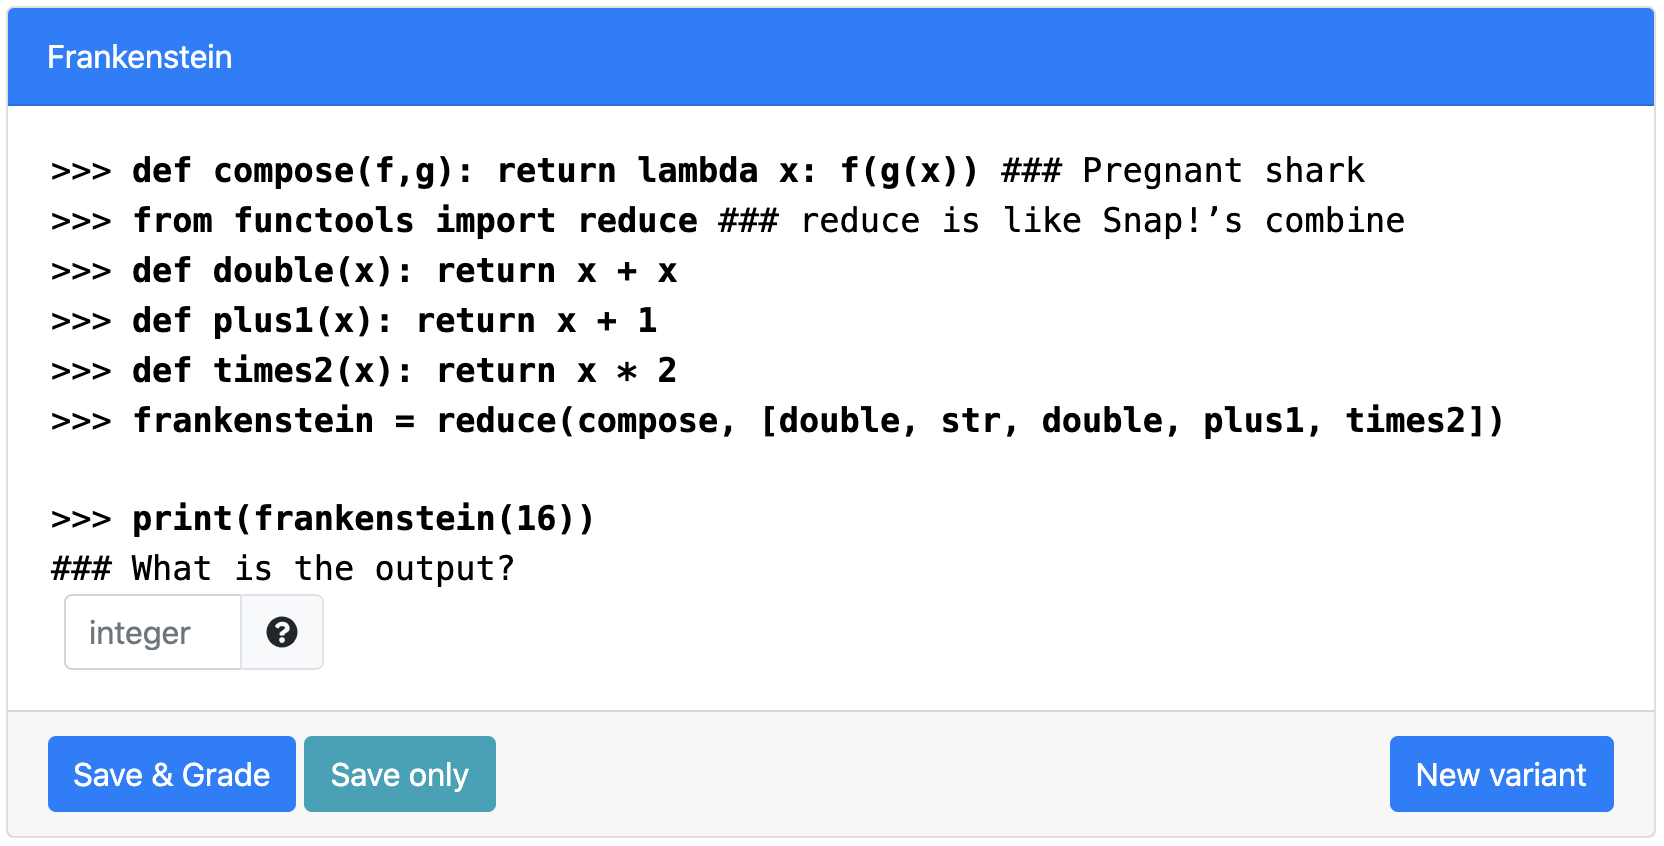
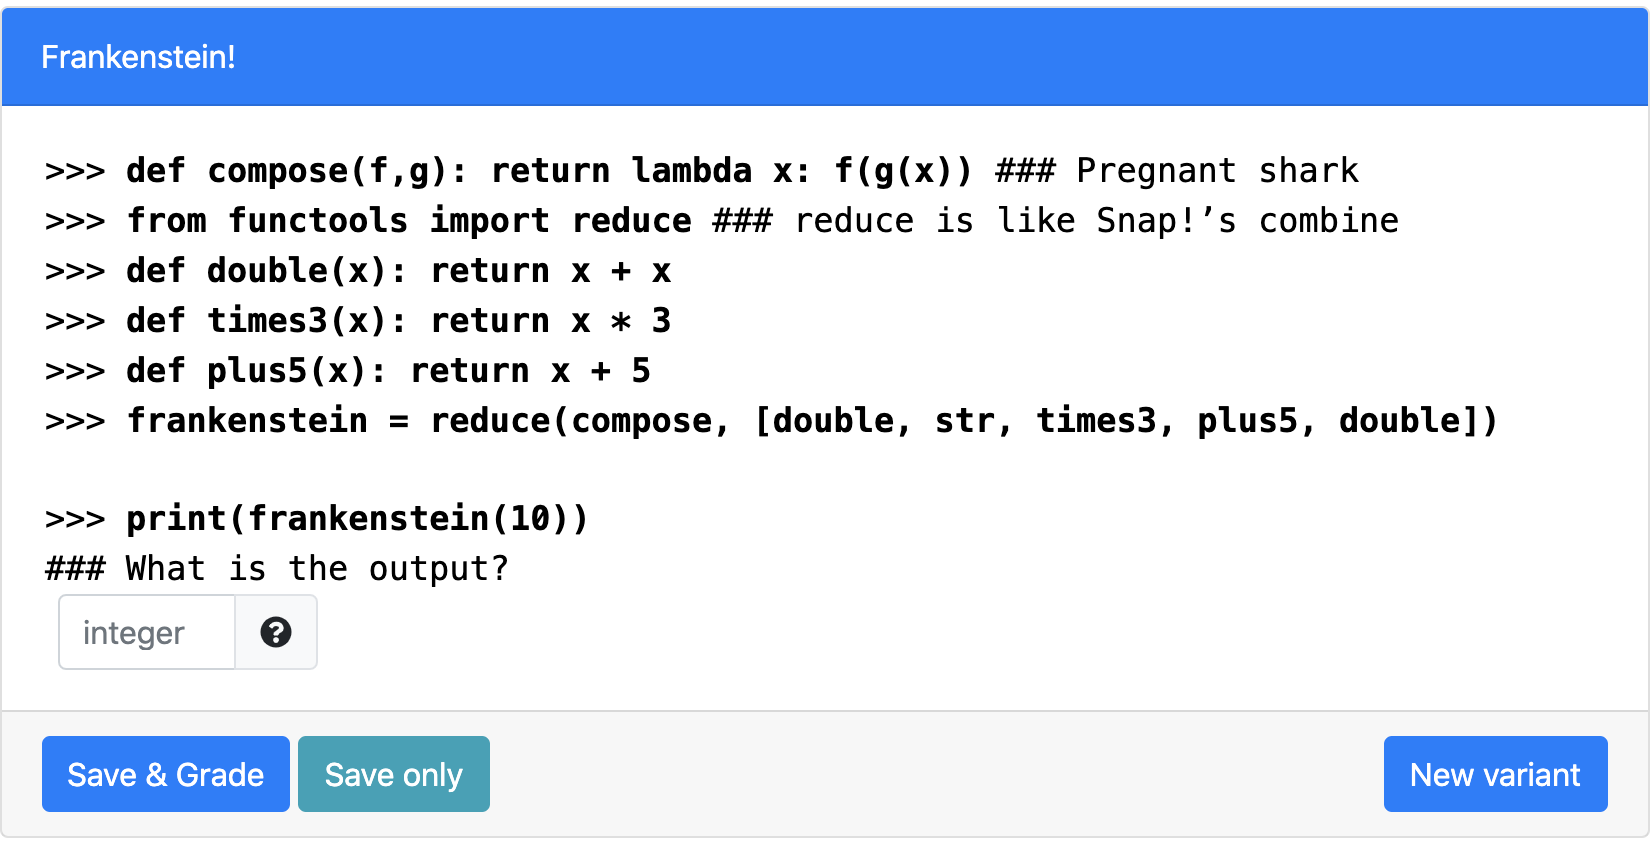
frankenstein updated

diff --git a/questions/python/Fa19-Q14-3-FB-Easy/question.html b/questions/python/Fa19-Q14-3-FB-Easy/question.html
@@ -16,7 +16,7 @@
     <code>>>> <strong>{{params.text_two}}</strong></code><br>
     <code>>>> <strong>{{params.text_three}}</strong></code><br>
     <code>>>> 
-        <strong>frankenstein = reduce(compose, [{{params.multiplication_function}}, str, {{params.function_one}}, {{params.function_two}}, {{params.function_three}}])</strong><br>
+        <strong>frankenstein = reduce(compose, [{{params.function_one}}, str, {{params.function_two}}, {{params.function_three}}, {{params.function_one}}])</strong><br>
     </code><br>
 </pl-question-panel>
 <code>>>> <strong>print(frankenstein({{params.input_value}}))</strong></code><br>

diff --git a/questions/python/Fa19-Q14-3-FB/question.html b/questions/python/Fa19-Q14-3-FB/question.html
@@ -16,7 +16,7 @@
     <code>>>> <strong>{{params.text_two}}</strong></code><br>
     <code>>>> <strong>{{params.text_three}}</strong></code><br>
     <code>>>> 
-        <strong>frankenstein = reduce(compose, [{{params.multiplication_function}}, str, {{params.function_one}}, {{params.function_two}}, {{params.function_three}}])</strong><br>
+        <strong>frankenstein = reduce(compose, [{{params.function_one}}, str, {{params.function_two}}, {{params.function_three}}, {{params.function_one}}])</strong><br>
     ### What input causes {{params.returned_value}} to be printed?</code><br>
     <br>
 </pl-question-panel>

diff --git a/questions/python/Fa19-Q14-3-FB-Easy/server.py b/questions/python/Fa19-Q14-3-FB-Easy/server.py
@@ -14,8 +14,11 @@ def triple(x):
 def plus1(x):
     return x + 1
 
-def plus2(x):
-    return x + 2
+def plus4(x):
+    return x + 4
+
+def plus5(x): 
+    return x + 5
 
 def times2(x):
     return x * 2
@@ -24,29 +27,25 @@ def times3(x):
     return x * 3
 
 def generate(data):
-    # The resulting function call would look like: reduce(compose, [multiplication_function, str, function_one, function_two, multiplication_function])
-    function_list = [double, triple, plus1, plus2, times2, times3]
-    multiplication_function = function_list[random.randint(0, 1)] 
-    if multiplication_function == double:
-        data['params']['multiplication_function'] = 'double'
-    else: 
-        data['params']['multiplication_function'] = 'triple'
-    selected_function_index = [random.randint(0, 1), random.randint(2, 3), random.randint(4, 5)]
-    random_index = random.sample(range(3), 3)
-    function_one = function_list[selected_function_index[random_index[0]]]
-    function_two = function_list[selected_function_index[random_index[1]]]
-    function_three = function_list[selected_function_index[random_index[2]]]
+    # The resulting function call would look like: reduce(compose, [function_one, str, function_two, function_three, function_one])
+    # function_one and function_two are always paired. The two possible pairs are [double, times3] and [triple, times2]
+    # function_three is a "plus" function
+    function_list = [[double, times3], [triple, times2], plus1, plus4, plus5]
 
-    if random_index[0] == 0: 
-        function_one = multiplication_function 
-    elif random_index[1] == 0:
-        function_two = multiplication_function
-    else: 
-        function_three = multiplication_function
+    # Randomizes the pair
+    multiplication_functions = function_list[random.randint(0, 1)]
+
+    # Determine which one is function_one and the other one would be function_two
+    random_index = random.randint(0 ,1)
+    function_one = multiplication_functions[random_index]
+    function_two = multiplication_functions[1 - random_index] 
+
+    # Randomizes the "plus" function
+    function_three = function_list[random.randint(2, 4)]
 
     # Randomize the correct solution and compute the returned value 
     input_value = random.randint(10, 20)
-    solution = int(reduce(compose, [multiplication_function, str, function_one, function_two, function_three])(input_value))
+    solution = int(reduce(compose, [function_one, str, function_two, function_three, function_one])(input_value))
 
     # Store the corresponding texts 
     if function_one == double: 
@@ -55,12 +54,6 @@ def generate(data):
     elif function_one == triple: 
         data['params']['text_one'] = "def triple(x): return x + x + x"
         data['params']['function_one'] = "triple"
-    elif function_one == plus1:
-        data['params']['text_one'] = "def plus1(x): return x + 1" 
-        data['params']['function_one'] = "plus1"
-    elif function_one == plus2:
-        data['params']['text_one'] = "def plus2(x): return x + 2"
-        data['params']['function_one'] = "plus2"
     elif function_one == times2:
         data['params']['text_one'] = "def times2(x): return x * 2"
         data['params']['function_one'] = "times2"
@@ -74,12 +67,6 @@ def generate(data):
     elif function_two == triple: 
         data['params']['text_two'] = "def triple(x): return x + x + x"
         data['params']['function_two'] = "triple"
-    elif function_two == plus1:
-        data['params']['text_two'] = "def plus1(x): return x + 1" 
-        data['params']['function_two'] = "plus1"
-    elif function_two == plus2:
-        data['params']['text_two'] = "def plus2(x): return x + 2"
-        data['params']['function_two'] = "plus2"
     elif function_two == times2:
         data['params']['text_two'] = "def times2(x): return x * 2"
         data['params']['function_two'] = "times2"
@@ -87,24 +74,15 @@ def generate(data):
         data['params']['text_two'] = "def times3(x): return x * 3"
         data['params']['function_two'] = "times3"
 
-    if function_three == double: 
-        data['params']['text_three'] = "def double(x): return x + x"
-        data['params']['function_three'] = "double"
-    elif function_three == triple: 
-        data['params']['text_three'] = "def triple(x): return x + x + x"
-        data['params']['function_three'] = "triple"
-    elif function_three == plus1:
+    if function_three == plus1:
         data['params']['text_three'] = "def plus1(x): return x + 1" 
         data['params']['function_three'] = "plus1"
-    elif function_three == plus2:
-        data['params']['text_three'] = "def plus2(x): return x + 2"
-        data['params']['function_three'] = "plus2"
-    elif function_three == times2:
-        data['params']['text_three'] = "def times2(x): return x * 2"
-        data['params']['function_three'] = "times2"
+    elif function_three == plus4:
+        data['params']['text_three'] = "def plus4(x): return x + 4"
+        data['params']['function_three'] = "plus4"
     else: 
-        data['params']['text_three'] = "def times3(x): return x * 3"
-        data['params']['function_three'] = "times3"
-
+        data['params']['text_three'] = "def plus5(x): return x + 5"
+        data['params']['function_three'] = "plus5"
+    
     data['correct_answers']['solution'] = solution
     data['params']['input_value'] = input_value

diff --git a/questions/python/Fa19-Q14-3-FB/server.py b/questions/python/Fa19-Q14-3-FB/server.py
@@ -14,8 +14,11 @@ def triple(x):
 def plus1(x):
     return x + 1
 
-def plus2(x):
-    return x + 2
+def plus4(x):
+    return x + 4
+
+def plus5(x): 
+    return x + 5
 
 def times2(x):
     return x * 2
@@ -24,29 +27,25 @@ def times3(x):
     return x * 3
 
 def generate(data):
-    # The resulting function call would look like: reduce(compose, [multiplication_function, str, function_one, function_two, multiplication_function])
-    function_list = [double, triple, plus1, plus2, times2, times3]
-    multiplication_function = function_list[random.randint(0, 1)] 
-    if multiplication_function == double:
-        data['params']['multiplication_function'] = 'double'
-    else: 
-        data['params']['multiplication_function'] = 'triple'
-    selected_function_index = [random.randint(0, 1), random.randint(2, 3), random.randint(4, 5)]
-    random_index = random.sample(range(3), 3)
-    function_one = function_list[selected_function_index[random_index[0]]]
-    function_two = function_list[selected_function_index[random_index[1]]]
-    function_three = function_list[selected_function_index[random_index[2]]]
+    # The resulting function call would look like: reduce(compose, [function_one, str, function_two, function_three, function_one])
+    # function_one and function_two are always paired. The two possible pairs are [double, times3] and [triple, times2]
+    # function_three is a "plus" function
+    function_list = [[double, times3], [triple, times2], plus1, plus4, plus5]
 
-    if random_index[0] == 0: 
-        function_one = multiplication_function 
-    elif random_index[1] == 0:
-        function_two = multiplication_function
-    else: 
-        function_three = multiplication_function
+    # Randomizes the pair
+    multiplication_functions = function_list[random.randint(0, 1)]
+
+    # Determine which one is function_one and the other one would be function_two
+    random_index = random.randint(0 ,1)
+    function_one = multiplication_functions[random_index]
+    function_two = multiplication_functions[1 - random_index] 
+
+    # Randomizes the "plus" function
+    function_three = function_list[random.randint(2, 4)]
 
     # Randomize the correct solution and compute the returned value 
     solution = random.randint(10, 20)
-    returned_value = reduce(compose, [multiplication_function, str, function_one, function_two, function_three])(solution)
+    returned_value = reduce(compose, [function_one, str, function_two, function_three, function_one])(solution)
 
     # Store the corresponding texts 
     if function_one == double: 
@@ -55,12 +54,6 @@ def generate(data):
     elif function_one == triple: 
         data['params']['text_one'] = "def triple(x): return x + x + x"
         data['params']['function_one'] = "triple"
-    elif function_one == plus1:
-        data['params']['text_one'] = "def plus1(x): return x + 1" 
-        data['params']['function_one'] = "plus1"
-    elif function_one == plus2:
-        data['params']['text_one'] = "def plus2(x): return x + 2"
-        data['params']['function_one'] = "plus2"
     elif function_one == times2:
         data['params']['text_one'] = "def times2(x): return x * 2"
         data['params']['function_one'] = "times2"
@@ -74,12 +67,6 @@ def generate(data):
     elif function_two == triple: 
         data['params']['text_two'] = "def triple(x): return x + x + x"
         data['params']['function_two'] = "triple"
-    elif function_two == plus1:
-        data['params']['text_two'] = "def plus1(x): return x + 1" 
-        data['params']['function_two'] = "plus1"
-    elif function_two == plus2:
-        data['params']['text_two'] = "def plus2(x): return x + 2"
-        data['params']['function_two'] = "plus2"
     elif function_two == times2:
         data['params']['text_two'] = "def times2(x): return x * 2"
         data['params']['function_two'] = "times2"
@@ -87,24 +74,15 @@ def generate(data):
         data['params']['text_two'] = "def times3(x): return x * 3"
         data['params']['function_two'] = "times3"
 
-    if function_three == double: 
-        data['params']['text_three'] = "def double(x): return x + x"
-        data['params']['function_three'] = "double"
-    elif function_three == triple: 
-        data['params']['text_three'] = "def triple(x): return x + x + x"
-        data['params']['function_three'] = "triple"
-    elif function_three == plus1:
+    if function_three == plus1:
         data['params']['text_three'] = "def plus1(x): return x + 1" 
         data['params']['function_three'] = "plus1"
-    elif function_three == plus2:
-        data['params']['text_three'] = "def plus2(x): return x + 2"
-        data['params']['function_three'] = "plus2"
-    elif function_three == times2:
-        data['params']['text_three'] = "def times2(x): return x * 2"
-        data['params']['function_three'] = "times2"
+    elif function_three == plus4:
+        data['params']['text_three'] = "def plus4(x): return x + 4"
+        data['params']['function_three'] = "plus4"
     else: 
-        data['params']['text_three'] = "def times3(x): return x * 3"
-        data['params']['function_three'] = "times3"
+        data['params']['text_three'] = "def plus5(x): return x + 5"
+        data['params']['function_three'] = "plus5"
     
     data['correct_answers']['solution'] = solution
     data['params']['returned_value'] = returned_value

diff --git a/questions/python/Fa19-Q14-3-FB-Easy/README.md b/questions/python/Fa19-Q14-3-FB-Easy/README.md
@@ -8,16 +8,17 @@
 - [How to run on PrairieLearn](#how-to-run-on-prairielearn)
 - [Contact](#Contact)
 
-## Variants
-- Randomly chooses between **double** and **triple** 
-- Randomly chooses between **plus1** and **plus2** 
-- Randomly chooses between **times2** and **times3**
+## Variants 
+> 1v132
+- The resulting function call looks like: **reduce(compose, [function_one, str, function_two, function_three, function_one])**  
+- **function_one** and **function_two** are always paired. The two possible pairs are **[double, times3]** and **[triple, times2]**
+- **function_three** is a "**plus**" function, randomly chosen from **plus1**, **plus4** and **plus5**.
 
 <img src="serverFilesQuestion/demo.png"
 width="800" height="400"/>
 
 ## Notes
-The input is provided and the student is asked to give the corresponding output. This is relatively easier than if the information given is swapped. 
+The input is provided and the student is asked to give the corresponding output. This is relatively easier than if the information given is swapped. For the plus function, the parameters 4 and 5 are intentionally chosen to avoid confusion with parameters in the other two functions. 
 
 ## Structure
 > Names of directories and files (except for png files) a required to remain the same for PL to read

diff --git a/questions/python/Fa19-Q14-3-FB/README.md b/questions/python/Fa19-Q14-3-FB/README.md
@@ -8,16 +8,18 @@
 - [How to run on PrairieLearn](#how-to-run-on-prairielearn)
 - [Contact](#Contact)
 
+
 ## Variants
-- Randomly chooses between **double** and **triple** 
-- Randomly chooses between **plus1** and **plus2** 
-- Randomly chooses between **times2** and **times3**
+> 1v132
+- The resulting function call looks like: **reduce(compose, [function_one, str, function_two, function_three, function_one])**  
+- **function_one** and **function_two** are always paired. The two possible pairs are **[double, times3]** and **[triple, times2]**
+- **function_three** is a "**plus**" function, randomly chosen from **plus1**, **plus4** and **plus5**.
 
 <img src="serverFilesQuestion/demo.png"
 width="800" height="400"/>
 
 ## Notes
-The output is provided and the student is asked to give the corresponding input. This is relatively harder than if the information given is swapped. 
+The output is provided and the student is asked to give the corresponding input. This is relatively harder than if the information given is swapped. For the plus function, the parameters 4 and 5 are intentionally chosen to avoid confusion with parameters in the other two functions. 
 
 ## Structure
 > Names of directories and files (except for png files) a required to remain the same for PL to read
